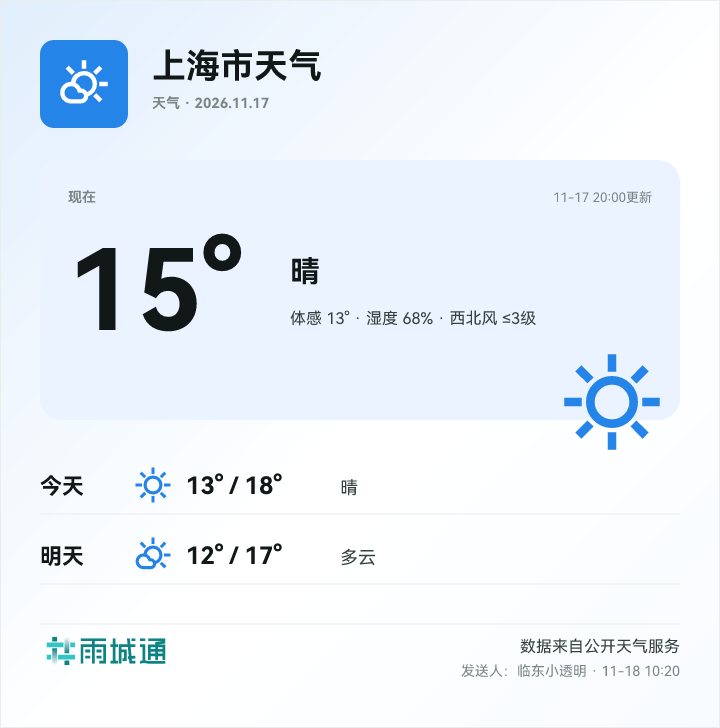
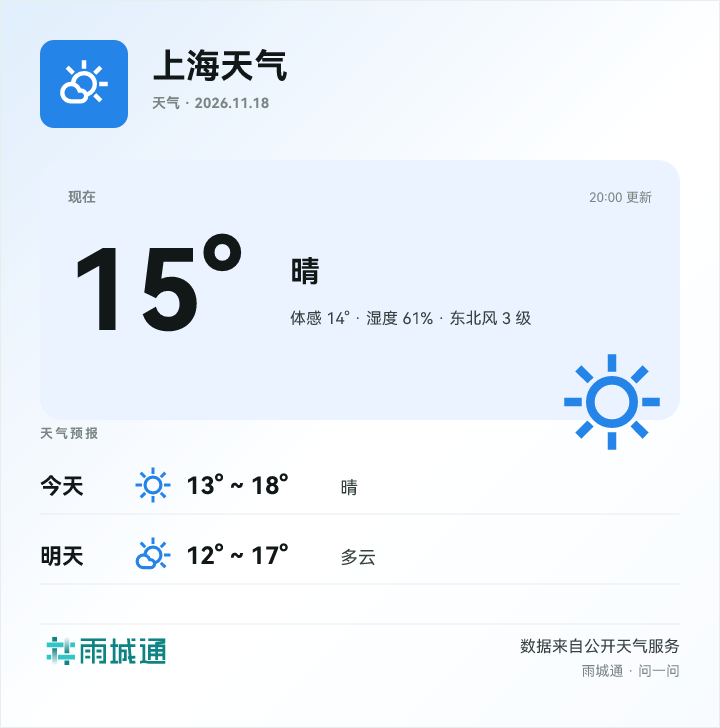
fix(qq-bot): 手机端改用主动图片并补天气预报展示

diff --git a/apps/web/lib/qq-bot-card.ts b/apps/web/lib/qq-bot-card.ts
@@ -531,7 +531,7 @@ function buildWeatherCard(card: WeatherCard): string {
         `<g transform="translate(40,${y})">`,
         `<text x="0" y="28" font-size="22" font-weight="700" fill="${colors.text}">${escapeXml(day.label)}</text>`,
         renderMaterialIconPath(weatherIconName(day.condition), 94, 0, 38, colors.secondary),
-        `<text x="146" y="28" font-size="24" font-weight="700" fill="${colors.text}">${escapeXml(day.low || '--')}° / ${escapeXml(day.high || '--')}°</text>`,
+        `<text x="146" y="28" font-size="24" font-weight="700" fill="${colors.text}">${escapeXml(day.low || '--')}° ~ ${escapeXml(day.high || '--')}°</text>`,
         `<text x="300" y="28" font-size="18" fill="${colors.textSecondary}">${escapeXml(day.condition || '天气未知')}</text>`,
         `<line x1="0" y1="48" x2="640" y2="48" stroke="${colors.borderSubtle}"/>`,
         '</g>',
@@ -559,6 +559,7 @@ function buildWeatherCard(card: WeatherCard): string {
       ? `<text x="612" y="42" text-anchor="end" font-size="13" fill="${colors.textMuted}">${escapeXml(card.updated)}</text>`
       : '',
     '</g>',
+    `<text x="40" y="438" font-size="13" font-weight="700" letter-spacing="2" fill="${colors.textMuted}">天气预报</text>`,
     days,
   ].join('');
 

diff --git a/docs/QQ_BOT_COMMANDS.md b/docs/QQ_BOT_COMMANDS.md
@@ -184,20 +184,23 @@
 
 - 问一问的运营内容引用可能带 `imageUrl`（运营封面）。
 - 配置 `YCT_PUBLIC_BASE_URL` 为站点的 HTTPS 公网地址、并保持 `QQ_BOT_IMAGES=1` 时，
-  机器人会先把封面上传到 QQ，再发一条 **Markdown 图文消息**：图片和简化后的文字在同一条消息里。
-- 图文消息里的文字默认压到 `QQ_BOT_IMAGE_CAPTION_CHARS=120` 字以内；完整的纯文字版只在
-  图片上传失败时发送，不会出现“先发一段完整文字、再补一张图”的割裂感。
+  机器人会先上传封面，再发送文字回答，最后补一张图片消息。
+- 群聊里的图片走**主动消息**（不带 `msg_id` / `msg_seq`），不会让文字回答再 @ 发起者一次；
+  单聊仍走普通被动图片。
+- 不再使用 Markdown 图文消息：手机 QQ 只显示 `[封面]` 文本，兼容性不可靠。
 - 图片必须是 HTTPS，且域名在 `YCT_PUBLIC_BASE_URL` 或 `QQ_BOT_IMAGE_HOSTS` 内。
-- 上传/发送失败只写日志；上传失败回退纯文字，图文发送失败也会回退纯文字。
-- 目前只接运营封面；POI 图片、物料预览、地图截图还没有进入引用。
+- 上传失败只发纯文字；主动图片发送失败只写日志，不影响已发送的文字。
 
 ### 指令结果卡片
 
-除 **签到、帮助、关于机器人、新对话** 外，其余本地指令都会在文字回复之后附一张 720px 宽的 PNG 卡片，包括：
+除 **签到、帮助、关于机器人、新对话** 外，其余本地指令都会附一张 720px 宽的 PNG 卡片，包括：
 
 - 随机数、骰子、算式、中文电码、GB2312；
-- 天气、IP 属地、历史上的今天、对对联；
+- 天气、IP 属地、历史上的今天、对对联、随机地点；
 - 签到榜、发言统计、发言榜、今日运势、重置运势。
+
+群聊里卡片先作为**主动图片**发送，再发被动文字回复；图片不带 `msg_id`，所以整轮只 @ 发起者一次。
+单聊则是文字后附卡片图片。
 
 卡片版式对齐地图分享卡片 `.map-share-preview`：
 
